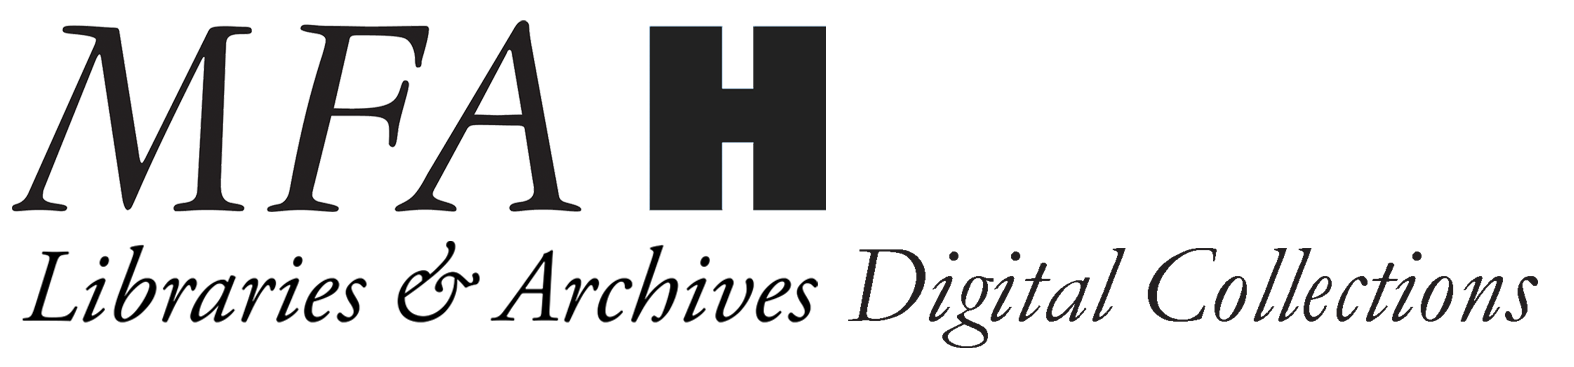
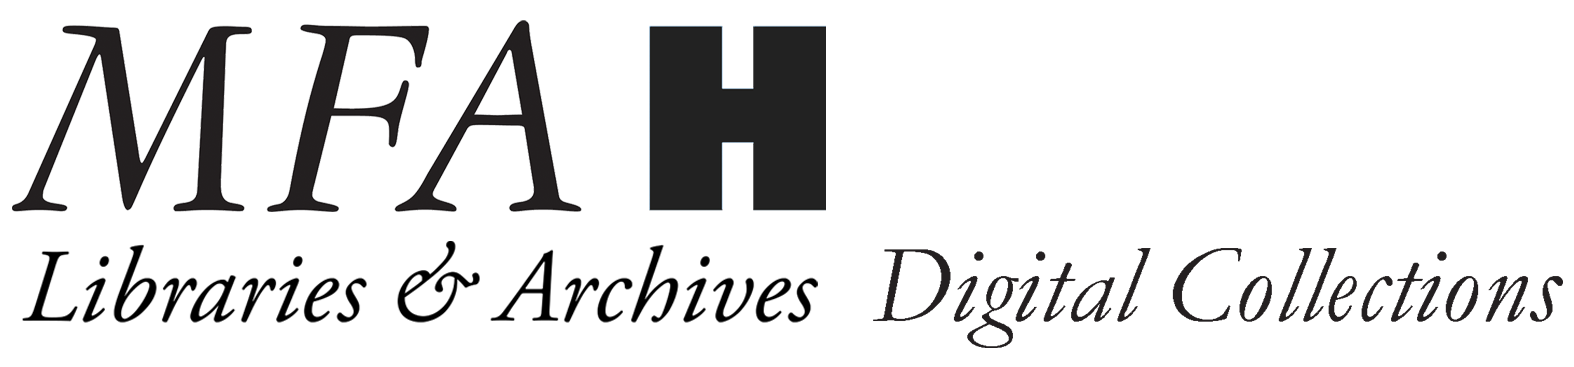
header adjustments

Changed region(s): [[0.5292, 0.6594, 0.9962, 0.9591]]

diff --git a/_home_page/0_HirschGlobal.css b/_home_page/0_HirschGlobal.css
@@ -24,8 +24,6 @@
 
 .Header-header .Header-logoImage {
   padding: 0;
-  /* margin-left: 0 !important;
-  margin-top: 0 !important;*/
   height: 90px;
   object-fit: cover;
   object-position: 0%;
@@ -62,7 +60,7 @@
   }
 }
 
-@media screen and (max-width: 1100px) and (min-width: 881px) {
+/**@media screen and (max-width: 1100px) and (min-width: 881px) {
   .Header-logoImage {
     width: 420px;
   }
@@ -70,19 +68,21 @@
 
 @media screen and (max-width: 880px) and (min-width: 768px) {
   .Header-logoImage {
-    width: 228px;
+    width: 396px;
   }
-}
+}**/
 
 @media screen and (max-width: 767px) {
   .Header-logoImage {
-    width: 420px;
+    width: 336px;
+    max-height: 75px !important;
+    margin-top: 7px !important;
   }
 }
 
 @media screen and (min-width: 768px) {
   .Header-logoImage {
-    margin-top: 10px !important;
+    margin-top: 12px !important;
   }
 }
 @media screen and (min-width: 768px) {
@@ -106,7 +106,8 @@
   .dropdown.btn-group {
     float: none;
     display: block;
-    margin: 0 0 0 0;
+    margin-top: 4px;
+    margin-left: 0px;
     padding: 0 0 0 0;
   }
 
@@ -146,7 +147,7 @@ a.headerIcon {
 
 @media screen and (max-width: 767px) {
   .SimpleSearch-searchBox {
-    top: 70px;
+    top: 75px;
   }
 }
 
